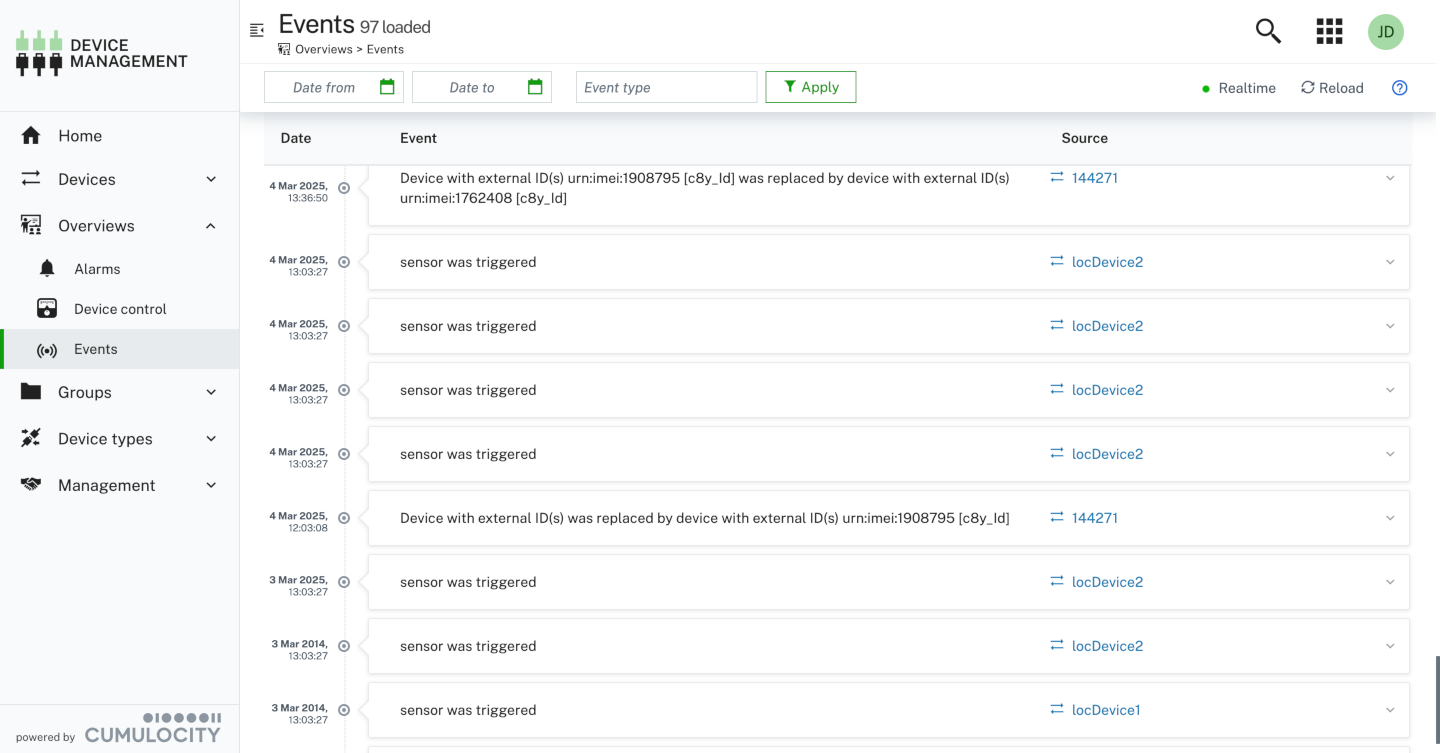
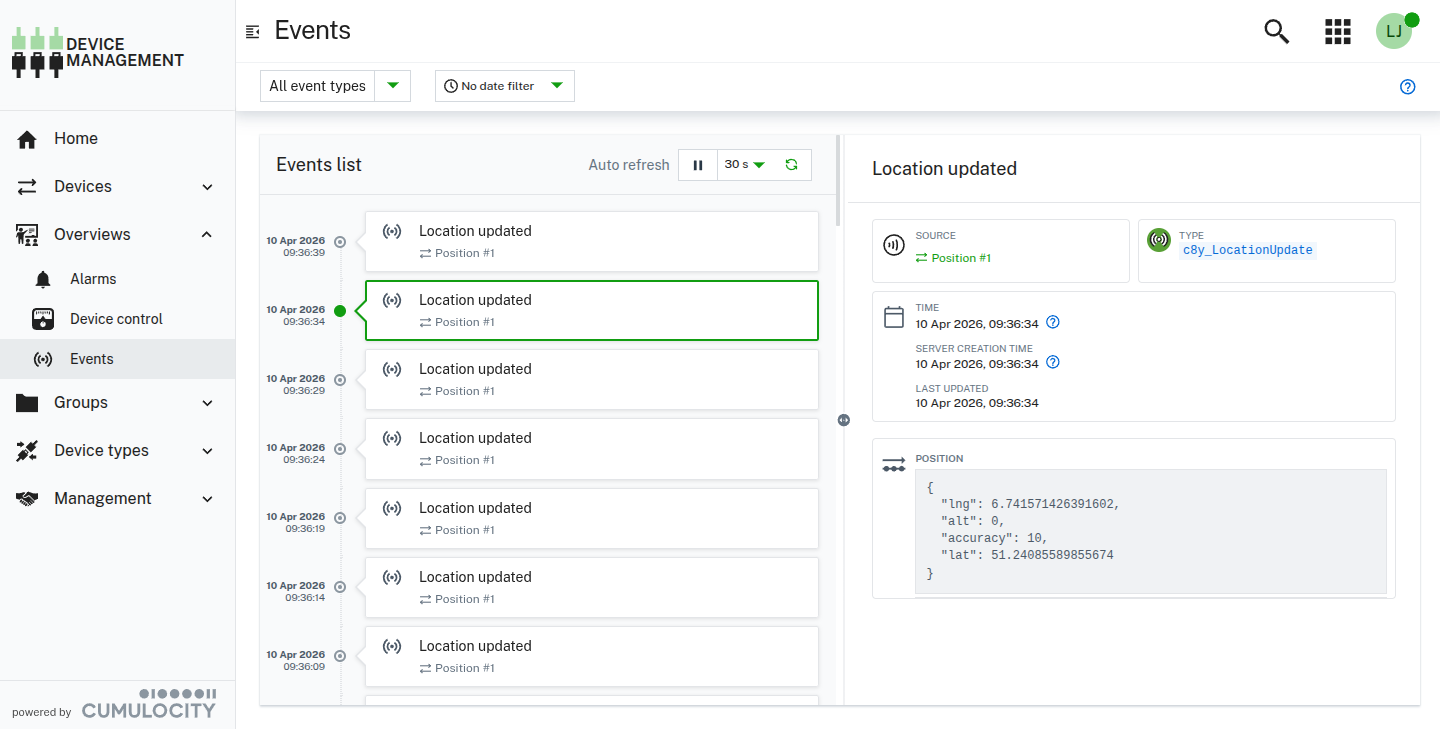
feat: Add Events documentation and update troubleshooting guide

diff --git a/content/device-management-application/monitoring-and-controlling-devices-bundle/troubleshooting-devices.md b/content/device-management-application/monitoring-and-controlling-devices-bundle/troubleshooting-devices.md
@@ -25,7 +25,7 @@ Troubleshooting devices at a more detailed level can be done with the help of ev
 
 ![Events](/images/users-guide/DeviceManagement/devmgmt-events.png)
 
-Per default, events are shown as coming in from the devices in real time. To disable real-time updates, click **Realtime** at the right of the top menu bar.
+By default, events are displayed as they come in from the devices at selected intervals (30 seconds by default). To pause pooling updates, click the button with the countdown timer next to the **Auto refresh** label.
 
 For each event, the following information is provided:
 
@@ -37,8 +37,8 @@ For each event, the following information is provided:
 
 In the event list, the latest entry is displayed on top.
 
-Clicking a row expands it and displays further details on the event (as type and position of the device).
+Clicking a row opens a details of selected event and displays further details on the event (as type and position of the device). 
 
 Since devices may send large amounts of event data, you can filter the data to be displayed by date.
 
-Select a start date and an end date from the fields in the top menu bar and click **Apply** to apply the filter. Click **Clear** to clear the filter again.
+To do this, select the date filter in the top menu bar and choose one of the predefined date ranges or create a custom one. After selecting and filling in a custom date range, click the **Apply** button.

diff --git a/content/cockpit/events.md b/content/cockpit/events.md
@@ -1,0 +1,11 @@
+---
+weight: 25
+title: Events
+layout: bundle
+sector:
+  - app_enablement
+---
+
+The **Events** page provides information about the events raised on the devices. See [To view events](/device-management-application/monitoring-and-controlling-devices/#to-view-events) for detailed information on events.
+
+![Events page](/images/users-guide/DeviceManagement/devmgmt-events.png)
